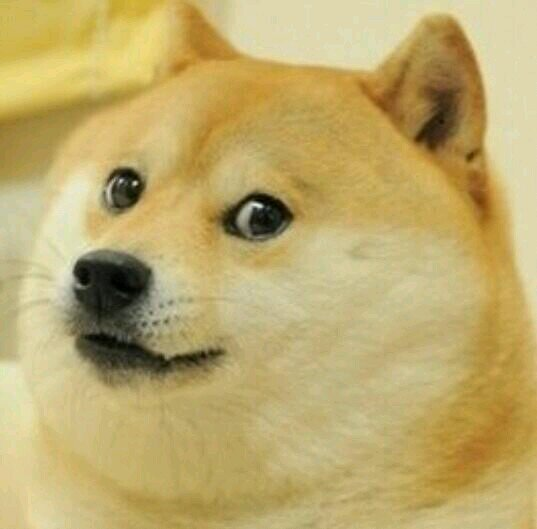
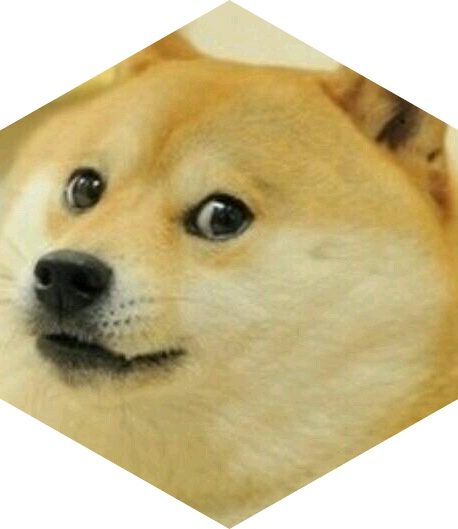
DOGES

diff --git a/main.min.js b/main.min.js
@@ -1,1 +1,1 @@
-var rolls=[5,2,6,3,8,10,9,12,11,4,8,10,9,4,5,6,3,11],doge=new Image;doge.src="images/doge.jpg";var catanBoard=function(t){for(var e=[],i=0,o=Math.floor(Math.random()*(rolls.length+1)),n=0;t>n;n++){for(var s=[],r=t-Math.abs(t/2-n)-(n>t/2?1:0),a=0;r>a;a++)s.push(i+a==o?-1:rolls.shift());e.push(s),i+=r}console.log(e)},SQRT_3=Math.sqrt(3),makeNiceContext=function(t){return t.x=0,t.y=0,t.move=function(t,e){return this.x=t,this.y=e,this.moveTo(t,e)},t.moveR=function(t,e){return this.x+=t,this.y+=e,this.moveTo(this.x,this.y)},t.lineR=function(t,e){return this.x+=t,this.y+=e,this.lineTo(this.x,this.y)},t.drawRegHex=function(t){this.moveR(0,-t),this.lineR(SQRT_3*t/2,t/2),this.lineR(0,t),this.lineR(SQRT_3*-t/2,t/2),this.lineR(SQRT_3*-t/2,-t/2),this.lineR(0,-t),this.lineR(SQRT_3*t/2,-t/2),this.moveR(0,t)},t.moveHexCenter=function(t,e,i){this.moveR(SQRT_3*t*(e-(i%2==0?0:.5)),1.5*t*i)},t.imageR=function(t,e,i,o,n){this.drawImage(t,this.x+e-o/2,this.y+i-n/2,o,n)},t.drawCatanBoard=function(t){this.moveHexCenter(t,2,-3);var e=[3,4,5,4,3],i=1;for(var o in e){this.moveHexCenter(t,i-e[o],1);for(var n=0;n<e[o];n++)this.drawRegHex(t),this.imageR(doge,0,0,SQRT_3*t,2*t),this.moveHexCenter(t,1,0);2==o&&i--}this.stroke(),this.moveHexCenter(t,-2.5,-2)},t},main=function(){var t=makeNiceContext($("canvas#board")[0].getContext("2d")),e=50;t.move(400,400),t.drawCatanBoard(e)};$(window).load(main);
+var rolls=[5,2,6,3,8,10,9,12,11,4,8,10,9,4,5,6,3,11],doge=new Image;doge.src="images/doge.png";var catanBoard=function(t){for(var e=[],i=0,n=Math.floor(Math.random()*(rolls.length+1)),o=0;t>o;o++){for(var s=[],r=t-Math.abs(t/2-o)-(o>t/2?1:0),a=0;r>a;a++)s.push(i+a==n?-1:rolls.shift());e.push(s),i+=r}console.log(e)},SQRT_3=Math.sqrt(3),makeNiceContext=function(t){return t.x=0,t.y=0,t.move=function(t,e){return this.x=t,this.y=e,this.moveTo(t,e)},t.moveR=function(t,e){return this.x+=t,this.y+=e,this.moveTo(this.x,this.y)},t.lineR=function(t,e){return this.x+=t,this.y+=e,this.lineTo(this.x,this.y)},t.drawRegHex=function(t){this.moveR(0,-t),this.lineR(SQRT_3*t/2,t/2),this.lineR(0,t),this.lineR(SQRT_3*-t/2,t/2),this.lineR(SQRT_3*-t/2,-t/2),this.lineR(0,-t),this.lineR(SQRT_3*t/2,-t/2),this.moveR(0,t)},t.moveHexCenter=function(t,e,i){this.moveR(SQRT_3*t*(e-(i%2==0?0:.5)),1.5*t*i)},t.imageR=function(t,e,i,n,o){this.drawImage(t,this.x+e-n/2,this.y+i-o/2,n,o)},t.drawCatanBoard=function(t){this.moveHexCenter(t,2,-3);var e=[3,4,5,4,3],i=1;for(var n in e){this.moveHexCenter(t,i-e[n],1);for(var o=0;o<e[n];o++)this.drawRegHex(t),this.imageR(doge,0,0,SQRT_3*t,2*t),this.moveHexCenter(t,1,0);2==n&&i--}this.stroke(),this.moveHexCenter(t,-2.5,-2)},t},main=function(){var t=makeNiceContext($("canvas#board")[0].getContext("2d")),e=50;t.move(400,400),t.drawCatanBoard(e)};$(window).load(main);

diff --git a/main.js b/main.js
@@ -1,6 +1,6 @@
 var rolls = [5, 2, 6, 3, 8, 10, 9, 12, 11, 4, 8, 10, 9, 4, 5, 6, 3, 11];
 var doge = new Image();
-doge.src = "images/doge.jpg";
+doge.src = "images/doge.png";
 
 var catanBoard = function (width) {
 	var board = [];
